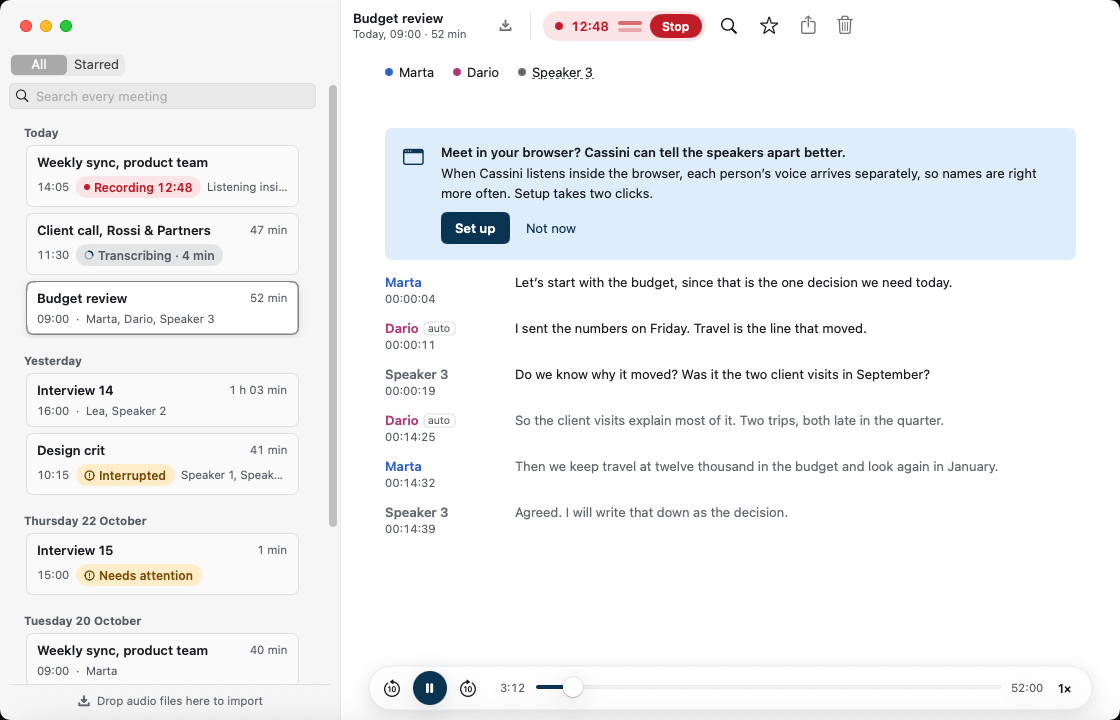
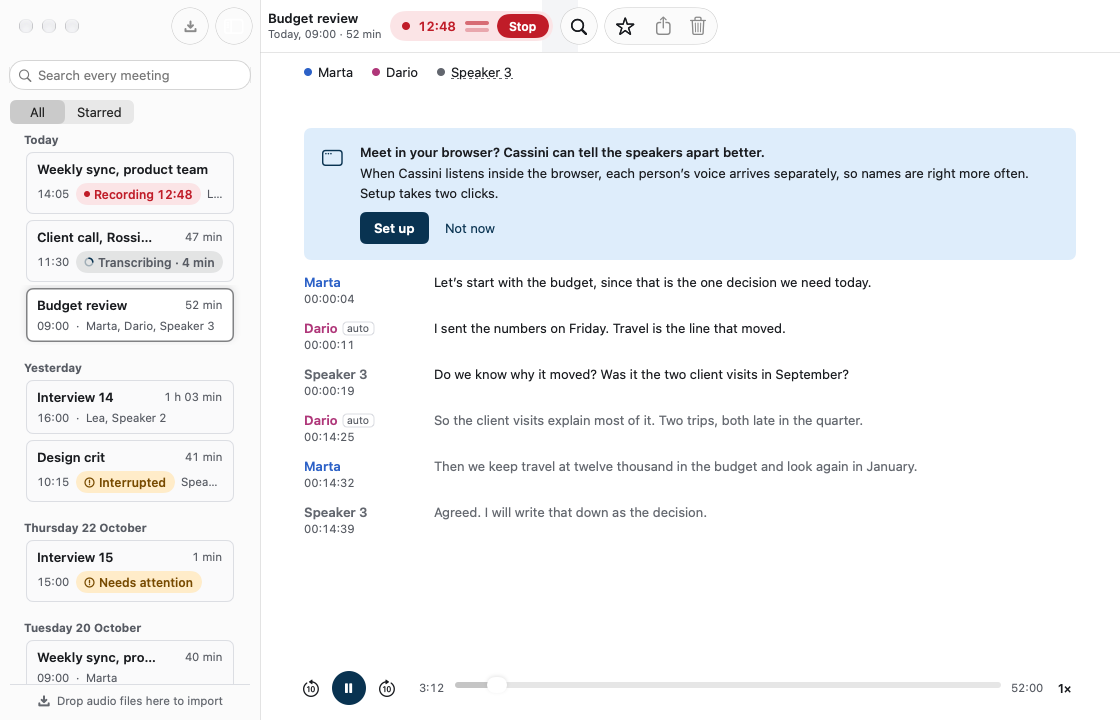
docs(screenshots): refresh Mac screenshots and extend local capture for D-1156

diff --git a/Cassini/ScreenshotFixture.swift b/Cassini/ScreenshotFixture.swift
@@ -94,12 +94,13 @@ enum ScreenshotFixture {
     /// automation. Renders only this app's fixture view, never the desktop.
     private static func localBoardRender(_ window: NSWindow) {
         guard ProcessInfo.processInfo.environment["CASSINI_LOCAL_WORKFLOW_TESTS"] == "1",
-              let name = LibraryLaunchContext.argument("-CassiniScreenshot"), ["first-run","record-first","test-recording-testing","test-recording-result","test-recording-refused","voices-question","meeting","recording","received","export","search"].contains(name),
+              let name = LibraryLaunchContext.argument("-CassiniScreenshot"), ["library","first-run","record-first","test-recording-testing","test-recording-result","test-recording-refused","voices-question","meeting","recording","received","export","search"].contains(name),
               !RecordingFixture.enabled else { return }
         Task { @MainActor in
             @MainActor func ready() -> Bool {
                 switch name {
                 case "first-run": return LibraryStore.shared.loaded
+                case "library": return LibraryStore.shared.loaded && MeetingNavigation.shared.detail != nil
                 case "meeting": return MeetingNavigation.shared.detail != nil
                 case "recording": return MeetingNavigation.shared.detail?.meeting.state.lifecycle == .recording
                 case "received": return LibraryStore.shared.selected?.state.origin == .received
@@ -118,17 +119,31 @@ enum ScreenshotFixture {
                let meeting=MeetingNavigation.shared.detail?.meeting {
                 await MeetingRenameCoordinator.shared.previewSpeaker(meeting)
             }
+            if let query = LibraryLaunchContext.argument("-CassiniFindPreview"), !query.isEmpty,
+               let detail = MeetingNavigation.shared.detail {
+                detail.find.visible = true
+                detail.find.query = query
+                while detail.find.searching || detail.find.matches.isEmpty {
+                    let (events, signal) = AsyncStream<Void>.makeStream()
+                    withObservationTracking { _ = detail.find.searching; _ = detail.find.matches.count } onChange: { signal.yield(); signal.finish() }
+                    var iterator = events.makeAsyncIterator(); _ = await iterator.next()
+                }
+            }
             await withCheckedContinuation { continuation in DispatchQueue.main.async { continuation.resume() } }
+            let customSize = LibraryLaunchContext.argument("-CassiniScreenshotSize") != nil
             guard (name != "first-run" || LibraryStore.shared.loaded && LibraryStore.shared.meetings.isEmpty),
                   (name != "recording" || MeetingNavigation.shared.detail?.meeting.state.lifecycle == .recording),
                   (name != "meeting" || MeetingNavigation.shared.detail != nil),
+                  (name != "library" || MeetingNavigation.shared.detail != nil),
                   (name != "export" || window.attachedSheet != nil),
                   (name != "search" || LibrarySearchModel.shared.hits.count == 4),
-                  window.frame.size == NSSize(width:1120,height:720),
-                  let frame = window.contentView?.superview,
-                  let image = NSBitmapImageRep(bitmapDataPlanes:nil,pixelsWide:1120,pixelsHigh:720,
+                  (customSize || window.frame.size == NSSize(width:1120,height:720)),
+                  let frame = window.contentView?.superview else { exit(1) }
+            let width = Int(frame.bounds.width.rounded()), height = Int(frame.bounds.height.rounded())
+            guard width > 0, height > 0,
+                  let image = NSBitmapImageRep(bitmapDataPlanes:nil,pixelsWide:width,pixelsHigh:height,
                     bitsPerSample:8,samplesPerPixel:4,hasAlpha:true,isPlanar:false,colorSpaceName:.deviceRGB,bytesPerRow:0,bitsPerPixel:0) else { exit(1) }
-            image.size = NSSize(width:1120,height:720)
+            image.size = frame.bounds.size
             frame.layoutSubtreeIfNeeded(); frame.cacheDisplay(in:frame.bounds,to:image)
             if let sheet = window.attachedSheet, let view = sheet.contentView?.superview,
                let overlay = view.bitmapImageRepForCachingDisplay(in:view.bounds) {
@@ -141,7 +156,7 @@ enum ScreenshotFixture {
                 NSGraphicsContext.restoreGraphicsState()
             }
             guard let png = image.representation(using:.png,properties:[:]),
-                  let output = try? JSONSerialization.data(withJSONObject:["board":name,"pngBase64":png.base64EncodedString()]) else { exit(1) }
+                  let output = try? JSONSerialization.data(withJSONObject:["board":name,"width":width,"height":height,"pngBase64":png.base64EncodedString()]) else { exit(1) }
             FileHandle.standardOutput.write(output + Data([10])); exit(0)
         }
     }
@@ -158,9 +173,16 @@ enum ScreenshotFixture {
         guard let screen = window.screen ?? NSScreen.main else { NSApp.terminate(nil); return }
         // The board-size job selects a larger display mode before launch. Keep
         // every edge on screen; never pass by clipping an offscreen window.
-        let shortSpeakerWindow = LibraryLaunchContext.argument("-CassiniScreenshotSize") == "760x480"
+        let requestedSize: NSSize? = {
+            guard let raw = LibraryLaunchContext.argument("-CassiniScreenshotSize") else { return nil }
+            if raw == "narrow" { return NSSize(width: 560, height: 720) }
+            let parts = raw.split(separator: "x")
+            guard parts.count == 2, let w = Double(parts[0]), let h = Double(parts[1]), w >= 320, h >= 320 else { return nil }
+            return NSSize(width: w, height: h)
+        }()
         let frame = NSRect(x: screen.visibleFrame.minX + 24, y: screen.visibleFrame.minY + 16,
-                           width: shortSpeakerWindow ? 760 : boardSize ? 1120 : 960, height: shortSpeakerWindow ? 480 : boardSize ? 720 : 640)
+                           width: requestedSize?.width ?? (boardSize ? 1120 : 960),
+                           height: requestedSize?.height ?? (boardSize ? 720 : 640))
         guard screen.visibleFrame.contains(frame) else { NSApp.terminate(nil); return }
         window.setFrame(frame, display: true)
         window.makeKeyAndOrderFront(nil)

diff --git a/UITests/LibraryBoards.swift b/UITests/LibraryBoards.swift
@@ -558,8 +558,16 @@ final class LibraryBoards: XCTestCase {
         let window = app.windows["cassini-library-window"]
         let budget = window.outlines.staticTexts.matching(NSPredicate(format:"value == %@ OR label == %@","Budget review","Budget review")).firstMatch
         XCTAssertTrue(budget.waitForExistence(timeout:20),app.debugDescription); budget.click()
+        budget.rightClick()
+        XCTAssertTrue(window.menuItems["move-to-trash"].waitForExistence(timeout:5),app.debugDescription)
+        capture(window,name:"qa-meeting-context-menu")
+        app.typeKey(.escape,modifierFlags:[])
         // 1. File → Rename… sheet
-        app.menuBars.menuBarItems["File"].click(); app.menuItems["Rename…"].click()
+        let fileMenuBarItem = app.menuBars.menuBarItems["File"]
+        fileMenuBarItem.click()
+        XCTAssertTrue(app.menuItems["Rename…"].waitForExistence(timeout:5),app.debugDescription)
+        capture(fileMenuBarItem.menus.firstMatch,name:"qa-file-menu")
+        app.menuItems["Rename…"].click()
         let field = app.textFields["rename-name"]
         XCTAssertTrue(field.waitForExistence(timeout:10),app.debugDescription)
         XCTAssertEqual(field.value as? String,"Budget review")

diff --git a/scripts/render-local-ux.py b/scripts/render-local-ux.py
@@ -16,7 +16,7 @@ import uuid
 
 parser = argparse.ArgumentParser(description=__doc__)
 parser.add_argument('app',type=Path)
-parser.add_argument('board',choices=['first-run','voices-question','meeting','recording','received','export','search','settings-recording','settings-transcription','settings-voices','settings-library','settings-browser','settings-updates','about','record-first','test-recording-testing','test-recording-result','test-recording-refused'])
+parser.add_argument('board',choices=['library','first-run','voices-question','meeting','recording','received','export','search','settings-recording','settings-transcription','settings-voices','settings-library','settings-browser','settings-updates','about','record-first','test-recording-testing','test-recording-result','test-recording-refused'])
 parser.add_argument('--output',type=Path,required=True)
 parser.add_argument('--direct',action='store_true',help='Run the opted-in fixture executable directly when LaunchServices is unavailable')
 parser.add_argument('--browser-case',default='',help='Optional -CassiniBrowserCase fixture (e.g. health-ready)')
@@ -24,6 +24,8 @@ parser.add_argument('--listening',choices=['playing','finished'])
 parser.add_argument('--speaker')
 parser.add_argument('--speaker-editor',action='store_true',help='Render the read-only Name a speaker fixture')
 parser.add_argument('--transcribing',action='store_true',help='Render the L-45 status instead of completed reading')
+parser.add_argument('--find',default='',help='Open Find in a meeting with the given query')
+parser.add_argument('--size',default='',help='Optional -CassiniScreenshotSize (e.g. narrow or 560x720)')
 parser.add_argument('--scheme',choices=['light','dark'],default=os.environ.get('CASSINI_SCREENSHOT_SCHEME') or 'light')
 parser.add_argument('--language',choices=['en-GB','it','fr','es','pt-BR','pt-PT'],default='en-GB')
 parser.add_argument('--accent',default=os.environ.get('CASSINI_SCREENSHOT_ACCENT') or '')
@@ -32,6 +34,7 @@ assert not args.listening or args.board == 'meeting', 'Listening preview require
 assert not args.speaker or args.listening, 'Speaker selection requires a listening preview'
 assert not args.speaker_editor or args.board == 'meeting', 'Speaker editor requires the meeting fixture'
 assert not args.transcribing or args.board == 'meeting', 'Transcribing preview requires the meeting fixture'
+assert not args.find or args.board in ('meeting', 'library'), 'Find preview requires the meeting or library fixture'
 assert os.environ.get('CASSINI_LOCAL_WORKFLOW_TESTS') == '1', 'Explicit local workflow opt-in required'
 app = args.app.resolve()
 fixture = app/'Contents/Resources/Fixtures/Library'/('received-only' if args.board == 'received' else 'empty' if args.board in ('first-run','record-first','test-recording-testing','test-recording-result','test-recording-refused') else 'main')
@@ -47,14 +50,16 @@ with tempfile.TemporaryDirectory(prefix='cassini-own-view-') as temporary:
                '-AppleInterfaceStyle','Dark' if args.scheme == 'dark' else 'Light']
     if args.accent: command += ['-AppleAccentColor',args.accent]
     if args.scheme == 'dark': command += ['-CassiniScreenshotScheme','dark']
-    if args.speaker_editor: command += ['--speaker-editor-preview']
     if args.listening: command += ['-CassiniListeningPreview',args.listening]
     if args.speaker: command += ['-CassiniListeningSpeaker',args.speaker]
     if args.transcribing: command += ['-CassiniTranscribingPreview','YES']
+    if args.find: command += ['-CassiniFindPreview',args.find]
+    if args.size: command += ['-CassiniScreenshotSize',args.size]
     if args.board == 'voices-question': command += ['-CassiniAskVoices','YES']
     if args.board == 'settings-voices': command += ['-CassiniSavedVoicesFixture','YES']
     if args.board.startswith('settings-'): command += ['-CassiniSettingsID',str(uuid.uuid4())]
     if args.browser_case: command += ['-CassiniBrowserCase',args.browser_case]
+    if args.speaker_editor: command += ['--speaker-editor-preview']
     try:
         # The fixture writes its report and exits. -W waits for that completion,
         # including a new instance (-n), before reading the final output once.
@@ -82,6 +87,8 @@ with tempfile.TemporaryDirectory(prefix='cassini-own-view-') as temporary:
             assert int.from_bytes(png[16:20],'big') == 700 and 400 <= int.from_bytes(png[20:24],'big') <= 1050
         elif args.board == 'about':
             assert int.from_bytes(png[16:20],'big') == 300
+        elif args.size:
+            assert int.from_bytes(png[16:20],'big') >= 320 and int.from_bytes(png[20:24],'big') >= 320
         else: assert png[16:24] == bytes.fromhex('00000460000002d0')
         args.output.parent.mkdir(parents=True,exist_ok=True); args.output.write_bytes(png)
         print(args.board,int.from_bytes(png[16:20],'big'),int.from_bytes(png[20:24],'big'),'own-view render')

diff --git a/scripts/test-render-local-ux.py b/scripts/test-render-local-ux.py
@@ -187,6 +187,11 @@ class RenderLocalUX(unittest.TestCase):
         self.mode = 'interrupt'
         self.render(error=KeyboardInterrupt)
 
+    def test_library_find_and_size_reach_fixture(self):
+        self.render('library', extra=('--find', 'budget', '--size', 'narrow'))
+        self.assertEqual(self.arguments[self.arguments.index('-CassiniFindPreview') + 1], 'budget')
+        self.assertEqual(self.arguments[self.arguments.index('-CassiniScreenshotSize') + 1], 'narrow')
+
 
 if __name__ == '__main__':
     unittest.main()
